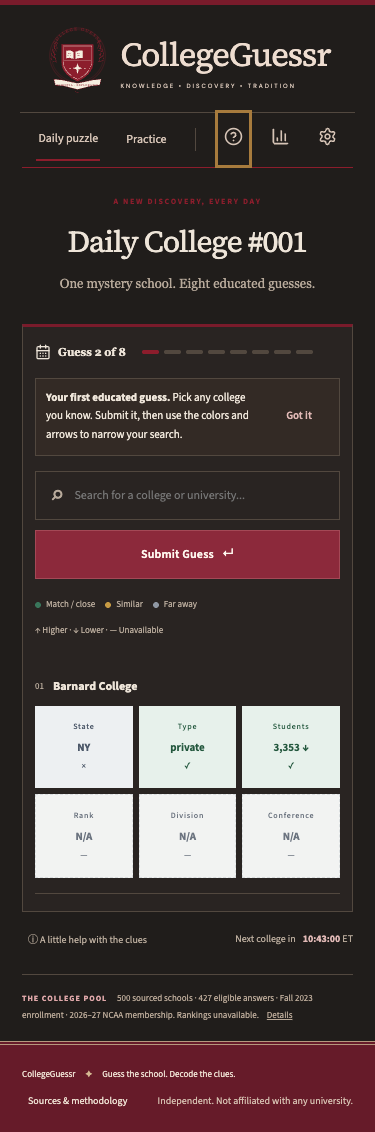
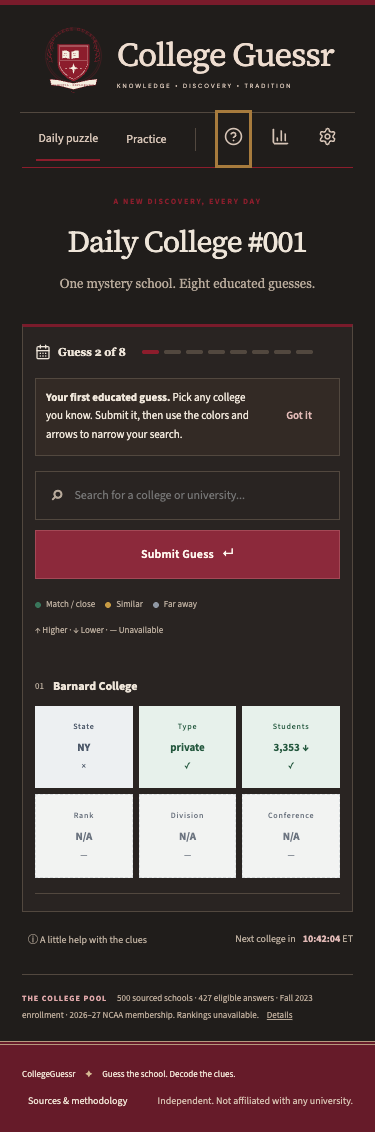
Polish narrow mobile layouts and update redesign previews

Changed region(s): [[0.3227, 0.0309, 0.88, 0.0928], [0.1173, 0.0309, 0.2933, 0.0928]]

diff --git a/src/components/Home.tsx b/src/components/Home.tsx
@@ -1,4 +1,4 @@
-import { puzzleNumber, dateKey } from "../game/engine";
+import { puzzleNumber, dateKey, colleges, answerPool } from "../game/engine";
 export function Home({
   navigate,
   onData,
@@ -73,11 +73,11 @@ export function Home({
       </section>
       <section className="academic-facts" aria-label="Game overview">
         <div>
-          <b>500</b>
+          <b>{colleges.length}</b>
           <span>American institutions</span>
         </div>
         <div>
-          <b>427</b>
+          <b>{answerPool.length}</b>
           <span>Eligible mystery colleges</span>
         </div>
         <div>

diff --git a/src/styles/globals.css b/src/styles/globals.css
@@ -1741,3 +1741,40 @@ dialog {
     font-size: 8px;
   }
 }
+@media (max-width: 360px) {
+  .brand > span {
+    font-size: 28px;
+  }
+  .brand img {
+    width: 56px;
+    height: 63px;
+  }
+  .brand small {
+    font-size: 5.5px;
+    letter-spacing: 1.6px;
+  }
+  nav {
+    gap: 18px;
+  }
+  .academic-actions {
+    gap: 12px;
+  }
+  .hero-copy h1 {
+    font-size: 41px;
+  }
+  .game-toolbar {
+    gap: 8px;
+  }
+  .progress {
+    gap: 3px;
+  }
+  .progress i {
+    width: 10px;
+  }
+  .edition-line {
+    font-size: 6px;
+  }
+  .primary {
+    padding: 14px 12px;
+  }
+}
